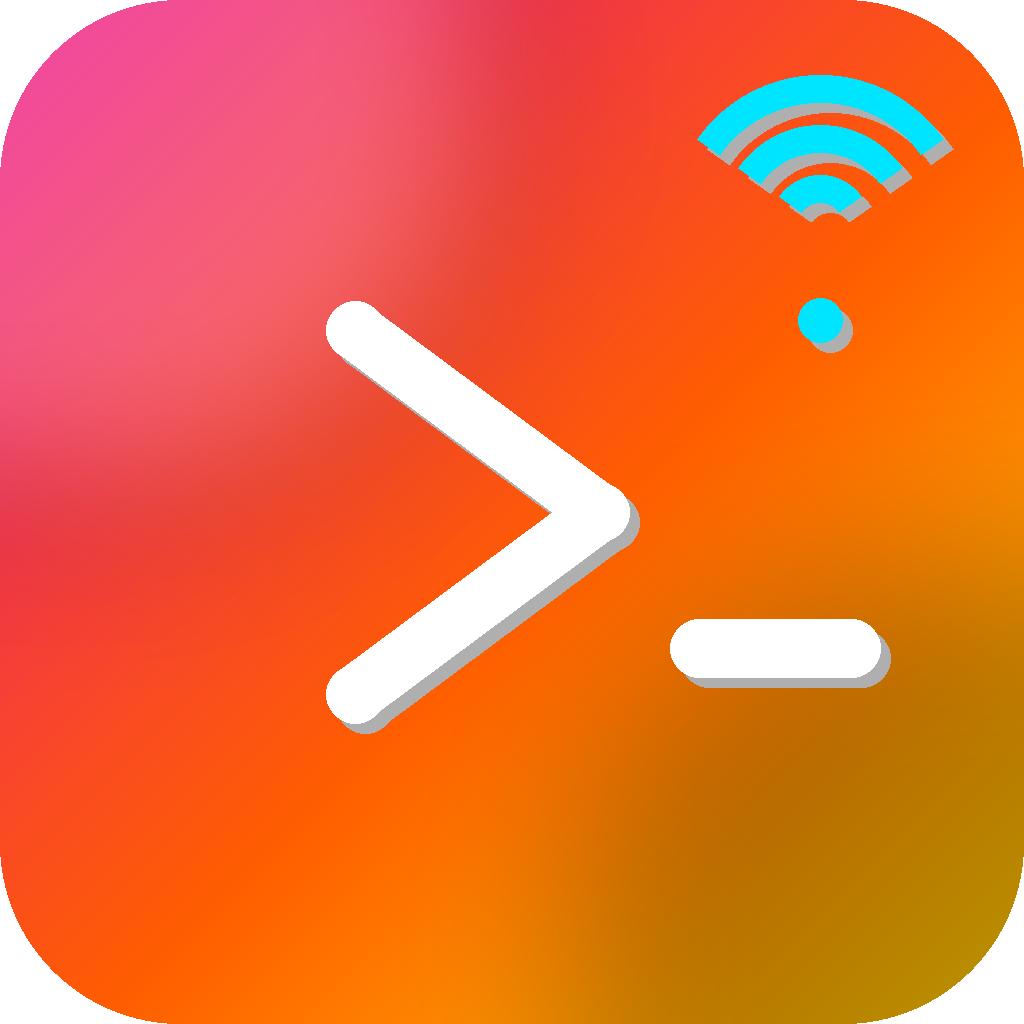
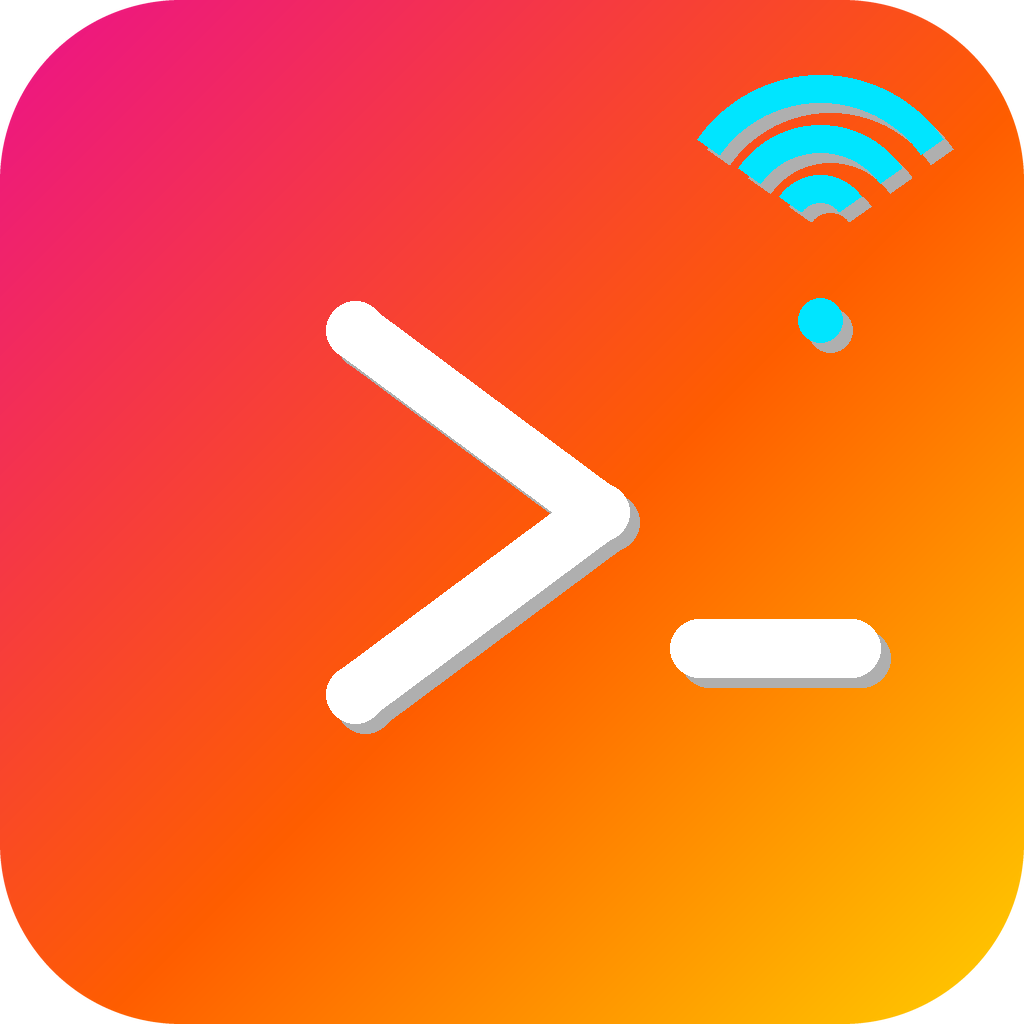
Fjern kant-artefakt rundt ikonet (supersamplet maske, ingen glødelag)

diff --git a/icon/make_icon.py b/icon/make_icon.py
@@ -1,10 +1,9 @@
-from PIL import Image, ImageDraw, ImageFilter
+from PIL import Image, ImageDraw
 
 SIZE = 1024
-img = Image.new("RGBA", (SIZE, SIZE), (0, 0, 0, 0))
+SS = 4  # supersample factor for a clean anti-aliased rounded-rect edge
+BIG = SIZE * SS
 
-# Hot, high-energy diagonal gradient: magenta -> orange -> yellow.
-# Far more eye-catching in a Dock full of cool-toned/muted icons.
 stops = [
     (0.00, (236, 18, 139)),   # magenta
     (0.55, (255, 94, 0)),     # orange
@@ -40,24 +39,18 @@ for y in range(SIZE):
         pixels[o + 2] = b
 
 grad = Image.frombytes("RGB", (SIZE, SIZE), bytes(pixels))
+img = Image.new("RGBA", (SIZE, SIZE), (0, 0, 0, 0))
 img.paste(grad, (0, 0))
 
-radius = int(SIZE * 0.1763)
-mask = Image.new("L", (SIZE, SIZE), 0)
-mdraw = ImageDraw.Draw(mask)
-mdraw.rounded_rectangle([0, 0, SIZE - 1, SIZE - 1], radius=radius, fill=255)
+# Supersampled mask: draw the rounded-rect large, then downsize with LANCZOS
+# so the edge is properly anti-aliased — no halo/ring from a hard-edged mask
+# getting resampled later by sips for smaller icon sizes.
+radius_big = int(BIG * 0.1763)
+mask_big = Image.new("L", (BIG, BIG), 0)
+ImageDraw.Draw(mask_big).rounded_rectangle([0, 0, BIG - 1, BIG - 1], radius=radius_big, fill=255)
+mask = mask_big.resize((SIZE, SIZE), Image.LANCZOS)
 img.putalpha(mask)
 
-draw = ImageDraw.Draw(img)
-
-# Depth: dark corner glow + a brighter top-left highlight than before, for more punch.
-glow = Image.new("RGBA", (SIZE, SIZE), (0, 0, 0, 0))
-gdraw = ImageDraw.Draw(glow)
-gdraw.ellipse([SIZE * 0.55, SIZE * 0.55, SIZE * 1.3, SIZE * 1.3], fill=(0, 0, 0, 70))
-gdraw.ellipse([-SIZE * 0.3, -SIZE * 0.3, SIZE * 0.5, SIZE * 0.5], fill=(255, 255, 255, 55))
-glow = glow.filter(ImageFilter.GaussianBlur(SIZE * 0.08))
-glow.putalpha(Image.composite(glow.split()[3], Image.new("L", (SIZE, SIZE), 0), mask))
-img = Image.alpha_composite(img, glow)
 draw = ImageDraw.Draw(img)
 
 shadow_offset = 10
@@ -91,8 +84,6 @@ draw.rounded_rectangle(
     radius=sr, fill=(255, 255, 255, 255),
 )
 
-# Remote-signal glyph: bright cyan reads as a cool, high-contrast pop against
-# the hot magenta/orange/yellow background (amber would have blended in).
 cx, cy = 820, 225
 cyan = (0, 229, 255, 255)
 cyan_shadow = (0, 0, 0, 80)
